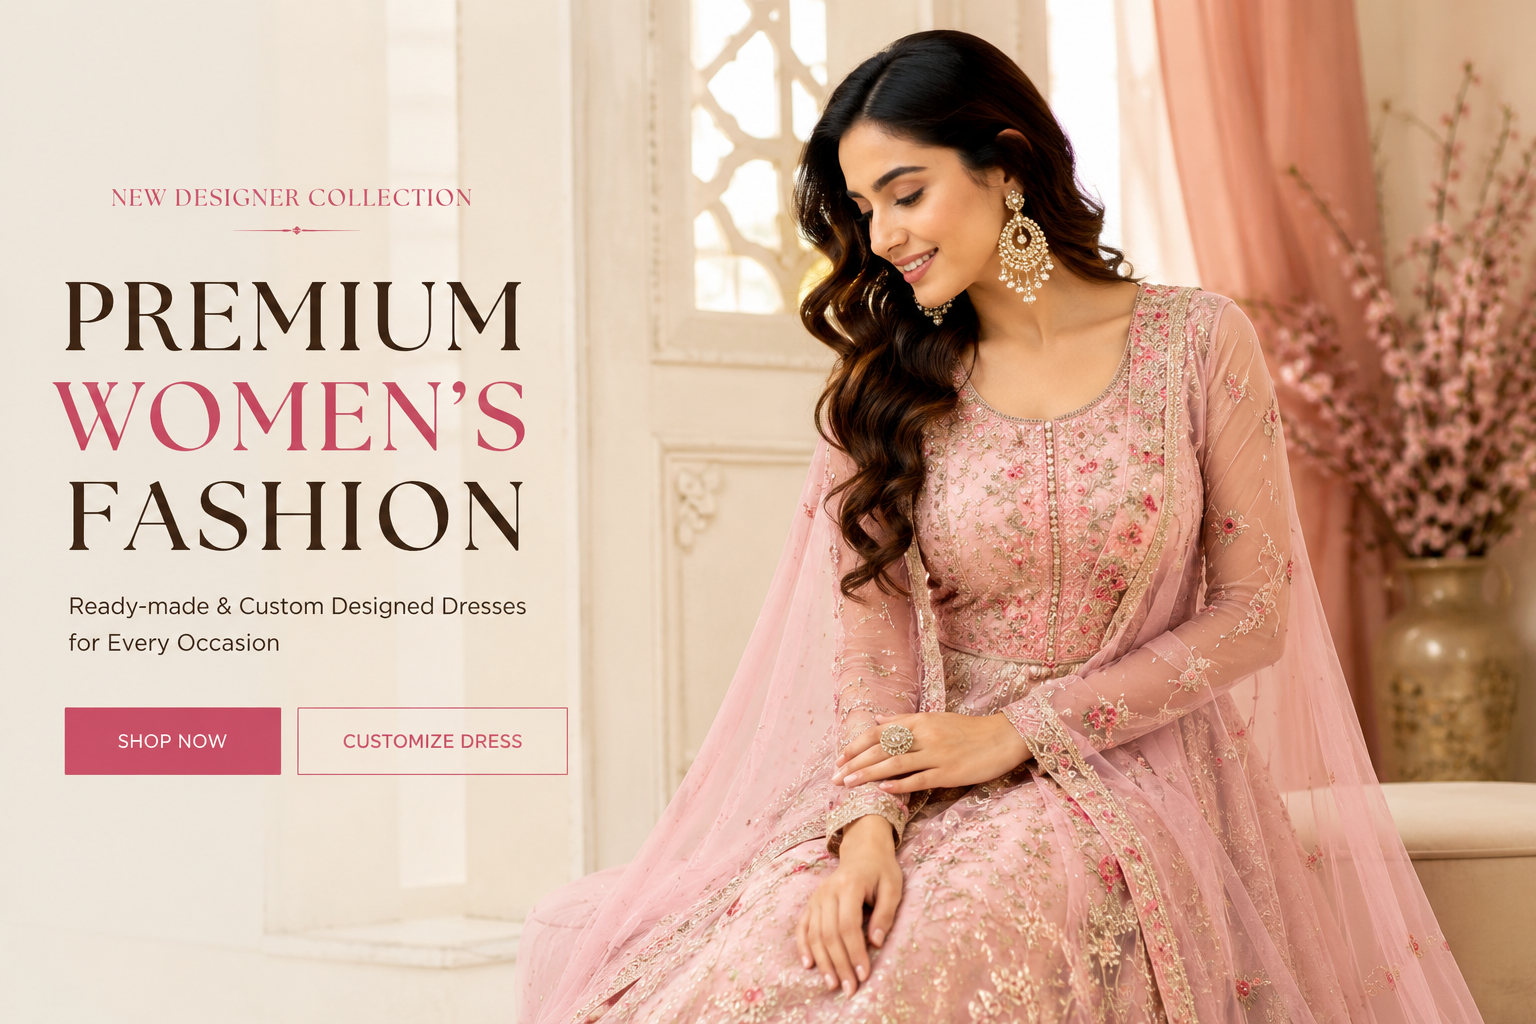
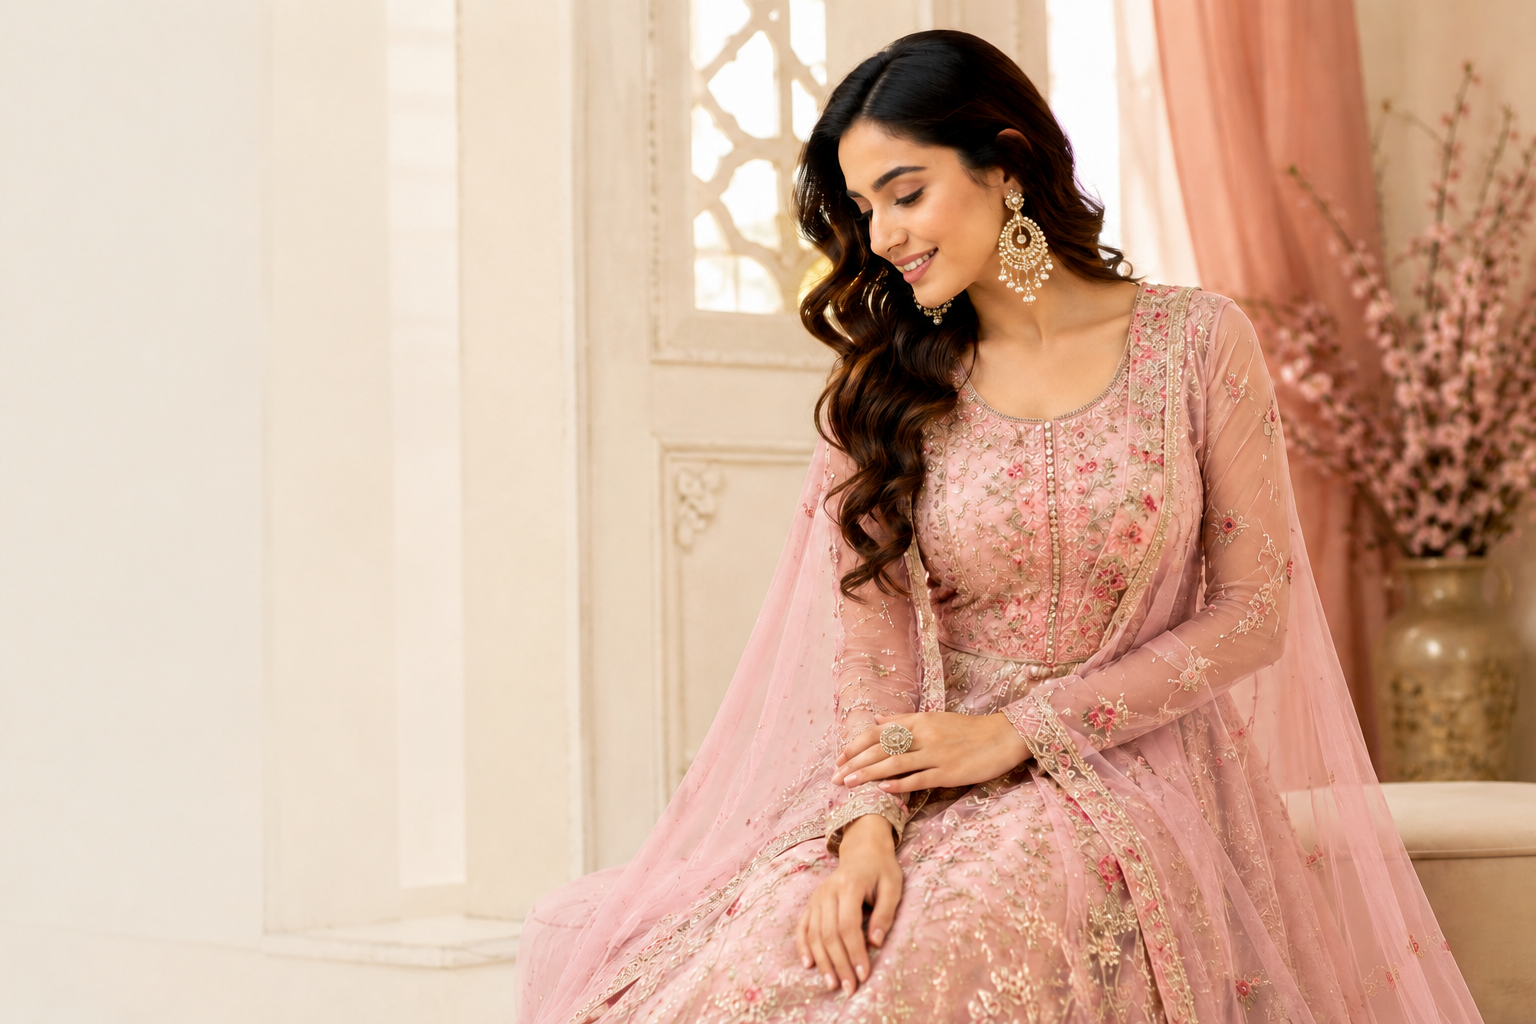
23-06-2026 4

diff --git a/src/pages/Home.jsx b/src/pages/Home.jsx
@@ -58,51 +58,69 @@ function Home() {
     <>
       <Navbar />
 
-      {/* HERO */}
-      <section className="bg-[#f7f2ee]">
-        <div className="relative h-[430px] md:h-[620px] overflow-hidden">
-          <img
-            src={heroDress}
-            alt="Parikta Fashion"
-            className="w-full h-full object-cover object-top"
-          />
+      {/* CINEMATIC HERO */}
+<section className="relative bg-[#14100e] overflow-hidden">
+  <div className="relative h-[560px] md:h-[720px]">
+    <img
+      src={heroDress}
+      alt="Parikta Fashion"
+      className="absolute inset-0 w-full h-full object-cover object-top scale-105"
+    />
 
-          <div className="absolute inset-0 bg-gradient-to-t md:bg-gradient-to-r from-[#2f241f]/65 via-[#2f241f]/20 to-transparent"></div>
+    <div className="absolute inset-0 bg-gradient-to-t from-[#14100e] via-[#14100e]/35 to-transparent"></div>
+    <div className="absolute inset-0 bg-gradient-to-r from-[#14100e]/70 via-transparent to-[#14100e]/20"></div>
 
-          <div className="absolute inset-0 flex items-end md:items-center">
-            <Container>
-              <div className="max-w-xl pb-10 md:pb-0 text-white">
-                <p className="text-xs md:text-sm tracking-[0.3em] uppercase text-[#eadbd4]">
-                  Parikta Fashion
+    <Container>
+      <div className="relative z-10 h-[560px] md:h-[720px] flex items-end md:items-center pb-12 md:pb-0">
+        <div className="max-w-xl text-white">
+          <p className="text-[11px] md:text-xs tracking-[0.38em] uppercase text-[#e8d7cc]">
+            Premium Women Designer Wear
+          </p>
+
+          <h1 className="heading-font text-5xl md:text-7xl lg:text-8xl leading-none mt-4">
+            Elegance
+          </h1>
+
+          <h2 className="logo-font text-6xl md:text-8xl text-[#E2B7B1] -mt-1">
+            in Every Thread
+          </h2>
+
+          <p className="text-sm md:text-base leading-7 text-[#fffaf7] mt-5 max-w-md">
+            Discover timeless ethnic, western and custom outfits crafted with
+            premium fabrics, delicate details and a luxury finish.
+          </p>
+
+          <div className="flex flex-wrap gap-3 mt-7">
+            <Link to="/products">
+              <button className="bg-[#9A3F4D] text-white px-7 py-3 text-xs tracking-[0.2em] uppercase font-semibold">
+                Shop Collection
+              </button>
+            </Link>
+
+            <Link to="/customize">
+              <button className="bg-white/90 text-[#9A3F4D] px-7 py-3 text-xs tracking-[0.2em] uppercase font-semibold">
+                Custom Design
+              </button>
+            </Link>
+          </div>
+
+          <div className="grid grid-cols-3 gap-3 mt-8 max-w-md">
+            {["Premium Fabric", "Custom Fit", "Designer Finish"].map((item) => (
+              <div
+                key={item}
+                className="border border-white/25 bg-white/10 backdrop-blur-sm px-3 py-3 text-center"
+              >
+                <p className="text-[10px] tracking-[0.18em] uppercase">
+                  {item}
                 </p>
-
-                <h1 className="heading-font text-4xl md:text-7xl mt-3 leading-tight">
-                  Timeless Elegance
-                </h1>
-
-                <p className="text-sm md:text-lg leading-7 mt-4 max-w-md text-[#fffaf7]">
-                  Premium women designer wear, custom outfits and elegant
-                  festive fashion made with love.
-                </p>
-
-                <div className="flex gap-3 mt-7">
-                  <Link to="/products">
-                    <button className="bg-[#9A3F4D] text-white px-6 md:px-9 py-3 text-xs tracking-[0.2em] uppercase font-semibold">
-                      Shop Now
-                    </button>
-                  </Link>
-
-                  <Link to="/customize">
-                    <button className="bg-white/90 text-[#9A3F4D] px-6 md:px-9 py-3 text-xs tracking-[0.2em] uppercase font-semibold">
-                      Customize
-                    </button>
-                  </Link>
-                </div>
               </div>
-            </Container>
+            ))}
           </div>
         </div>
-      </section>
+      </div>
+    </Container>
+  </div>
+</section>
 
       {/* SERVICE STRIP */}
       <section className="bg-[#fffaf7] border-b border-[#eadbd4] py-4">